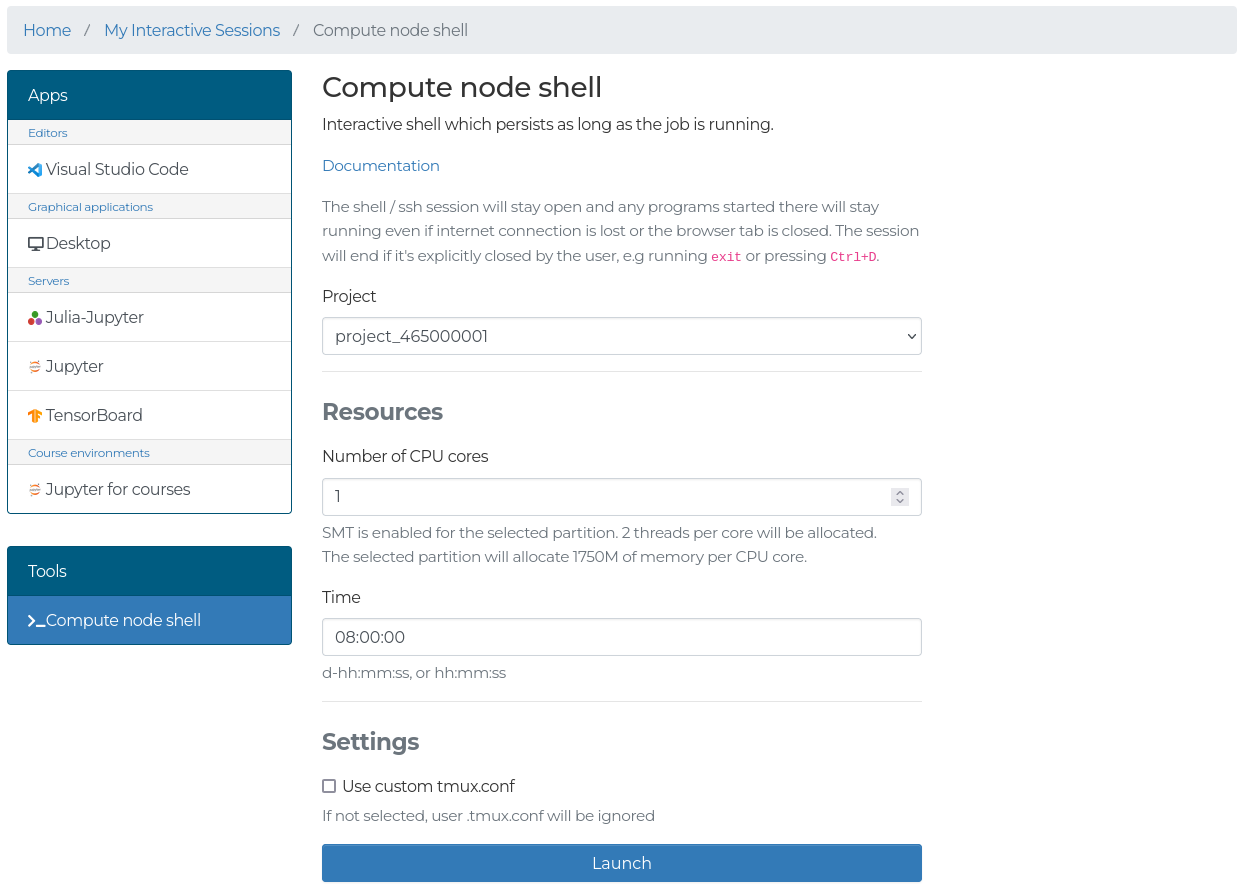
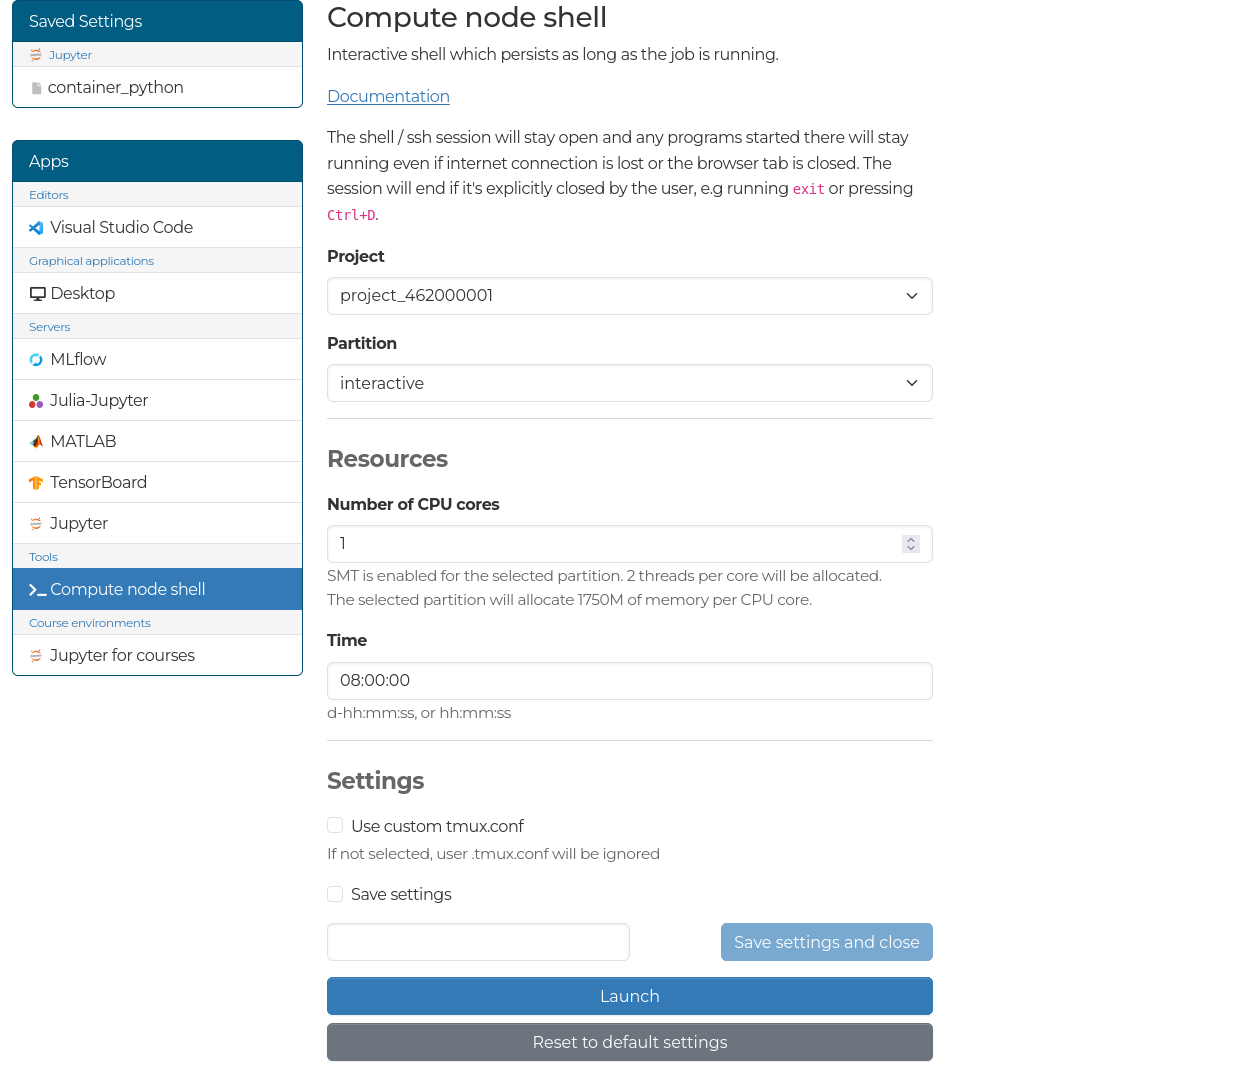
Update LUMI web interface docs
Update outdated images and documentation to match what is currently in
LUMI web interface release 8.

Changed region(s): [[0.0, 0.0, 0.7337, 0.8514], [0.2446, 0.8514, 0.7643, 1.0]]

diff --git a/docs/runjobs/webui/jupyter.md b/docs/runjobs/webui/jupyter.md
@@ -7,34 +7,58 @@ In the form you will be able to select:
 - **Working directory:** The directory where your notebook file is stored.
 - **Basic or Advanced:** 
   The _Basic_ setting allows you to use a Python module provided by the system, with either a virtual environment or user-installed packages to extend the module.
-  The _Advanced_ setting lets you set up the Python environment either using a script provided in the form, or a path to a script.
+  The _Advanced_ setting lets you set up the Python environment either using a script or a path to a script, as well as use a containerized Python installation.
   For more details about these, see the sections below.
-![Jupyter settings](../../assets/images/wwwLumiJupyterSettings.png)
 
 
 ## Basic
 
+![Jupyter basic settings](../../assets/images/wwwLumiJupyterSettings.png)
+
 In the basic settings, the following settings are available:
 
-- **Python**: Two Python modules are provided: `cray-python`, and `pytorch 2.0`, which has limited support available.
-    You can also select _Custom_ to provide a full path to the Python interpreter you want to use.
-- **Virtual environment path:** If the provided path does not exist, a new virtual environment using the module, or Python interpreter, selected will be created.
-    If an existing path is provided, that virtual environment will be used.
-    Note that virtual environments created outside the web interface are not guaranteed to work, so creating your virtual environments in the web interface is recommended.
-    If the field is left empty, no virtual environment is created or used.
-- **Enable system installed packages on venv creation:** If you are basing your Python environment on an existing Python module, you should enable this setting to ensure that you are able to use the Python packages provided by the module.
-    If you are creating a Python environment, and only using the modules to provide a specific Python version, you can disable this setting.
-- **Enable packages under ~/.local/lib on venv start**: Enables using packages installed using `pip --user install` in virtual environments.
-    It is recommended to leave this disabled to avoid conflicts in package versions.
+- **Python**:
+    Currently, the following Python modules are available: `cray-python`,
+    `pytorch`, and `geoconda`. Note that `pytorch` and `geoconda` have limited
+    support available. You can also select _Custom_ to provide a full path to
+    the Python interpreter you want to use.
+- **Virtual environment:**
+    After enabling the use of virtual environment in the form, you can provide
+    a path to your virtual environment. If the provided path does not exist, a
+    new virtual environment using the module, or Python interpreter, selected
+    will be created. If an already existing path is provided, that virtual
+    environment will be used. Note that virtual environments created outside
+    the web interface are not guaranteed to work, so creating your virtual
+    environments in the web interface is recommended. If the field is left
+    empty, no virtual environment is created or used.
+- **Enable system installed packages on venv creation:**
+    If you are basing your Python virtual environment on an existing Python
+    module, you should enable this setting to ensure that you are able to use
+    the Python packages provided by the module. If you are creating a Python
+    environment, and are only using the modules to provide a specific Python
+    version, you can disable this setting.
+- **Enable packages under ~/.local/lib on venv start**:
+    Enables using packages installed using `pip --user install` in virtual
+    environments. It is recommended to leave this disabled to avoid conflicts
+    in package versions.
 
 
 ## Advanced
 
-In the advanced settings, you can find the following settings:
+In the advanced settings, you can find a dropdown to specify the method for
+customizing your Python environment:
 
-- **Custom init _Text_ / Script to start:** Enter the full script for configuring up the environment to run JupyterLab in the text box.
-- **Custom init _File_ / Path to script:** Enter the path to the script for configuring the environment to run JupyterLab in the text box.
+- **Script:**
+    Enter the full script or a path to a script for setting up the environment
+    to run JupyterLab in the text box. To ensure that Jupyter launches
+    correctly, ensure that `python` is available on the path, and the
+    `jupyterlab` package has been installed. Jupyter will be launched using the
+    command `python -m jupyter lab`.
+- **Container:**
+    Allows you to use a containerized Python installation. You can can specify
+    a list of modules to load before entering the container, the path to your
+    container, additional container launch arguments, as well as an
+    initialization script for the container. A virtual environment can also be
+    used.
 
-Bash will `source` the script or path to script before starting Jupyter.
-To ensure that Jupyter launches correctly, ensure that `python` is available on the path, and the `jupyterlab` package has been installed.
-Jupyter will be launched using the command `python -m jupyter lab`.
+![Jupyter advanced settings](../../assets/images/wwwLumiJupyterSettingsAdvanced.png)

diff --git a/docs/runjobs/webui/julia-jupyter.md b/docs/runjobs/webui/julia-jupyter.md
@@ -1,35 +1,27 @@
 # Julia Jupyter
-## Selecting the Julia-Jupyter application
 
-We can use Julia on Jupyter through the [LUMI web interface](https://www.lumi.csc.fi) by selecting the **Julia-Jupyter** application from the menu:
-
-![ood application menu](../../assets/images/julia-jupyter/ood-application-menu.png)
+The Julia-Jupyter app launches Jupyter Lab with support for Julia kernels on a
+LUMI compute node, which you can access from the web interface.
 
 ## Launching Julia-Jupyter
 
-Now, we need to select the resources for running Julia-Jupyter.
-First, we must select a project for billing and partition for computing resources.
+In the form, start by selecting the project for billing, partition for computing resources,
+and the desired computing resources: CPU cores, memory, local disk, and time.
 
-![julia jupyter options](../../assets/images/julia-jupyter/options-1.png)
-
-Next, we must set the desired computing resources: CPU cores, memory, local disk, and time.
-
-![julia jupyter options](../../assets/images/julia-jupyter/options-2.png)
-
-Finally, we must select the Jupyter type. We recommend using the Jupyter lab, but the classic notebook is also available.
+Finally, select the Jupyter type. We recommend using JupyterLab, but the classic notebook is also available.
 The working directory sets the root directory for Jupyter.
 The Julia depot directory sets the location for package installations, compiled files, and other Julia depots.
 If you plan to install large numbers of Julia packages, we recommend using Projappl or Scratch instead of the home directory as it could run out of quota.
 For example, Plots.jl installs over 10k files and is quite large.
 
-![julia jupyter options](../../assets/images/julia-jupyter/options-3.png)
+![julia jupyter options](../../assets/images/wwwLumiJuliaJupyter.png)
 
 ## Starting Julia kernel
 
 ![available julia kernels on jupyter lab](../../assets/images/julia-jupyter/julia-kernels.png)
 
-When we first start the Julia-Jupyter session, we don't have any Julia kernels available.
-To install kernels, we must open the *Terminal* application, load the Julia module, and invoke an installation script as follows:
+When Julia-Jupyter is launched for the first time, there are no Julia kernels available.
+To install kernels,  open the *Terminal* application, load the Julia module, and invoke an installation script as follows:
 
 ```bash
 module load julia

diff --git a/docs/runjobs/webui/desktop.md b/docs/runjobs/webui/desktop.md
@@ -24,16 +24,27 @@ Once the job has started, there are two ways to connect to the desktop.
 For the best visual quality set compression to 0 and image quality to 9 using the sliders.
 For a more responsive connection, increase the compression and reduce the quality. 
 
+## Applications
 
-## GPU accelerated applications
-
-Currently, the following graphical applications are available with GPU acceleration on LUMI-D:
+Currently, the following applications are available:
 
 - Blender
+- GRASS GIS
+- MATLAB
 - ParaView
+- QGIS
+- SAGA GIS
 - VisIt
 
-You can find the available applications in the Apps dropdown in the taskbar, under the *Other* category.
-If you want to be able to access the apps easier, shortcuts to the applications can be created by dragging the icons to the desktop.
+You can find the available applications in the Apps dropdown in the taskbar,
+under the *Other* category. If you want to be able to access the apps more
+easily, shortcuts to the applications can be created by dragging the icons to
+the desktop.
 
 ![Apps available in the LUMI-D partition](../../assets/images/wwwLumiDesktopApps.png)
+
+### GPU Acceleration
+
+All of the available apps will utilize a GPU for rendering if the _lumid_
+partition was selected. However, note that not all of the applications benefit
+from having a GPU available.

diff --git a/docs/runjobs/webui/interactive-apps.md b/docs/runjobs/webui/interactive-apps.md
@@ -7,7 +7,14 @@ Currently running and past interactive app sessions can be found on the _My Inte
 
 ## Launching an application
 
-Each application has a form with settings for launching, where you can select the project for billing, the partition, resources, and app-specific settings.
+Each application has a form with settings for launching, where you can select
+the project for billing, the partition, resources, and app-specific settings.
+
+The app settings specified in the form can be saved for restoring later by
+checking the _Save settings_ checkbox in the form, and specifying a name. Your
+saved settings can be found in the menu on the left side of the app forms, or
+in the saved settings dropdown in the app form for the app.
+
 
 ![Interactive app form](../../assets/images/wwwLumiDesktop.png)
 
